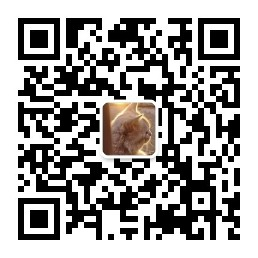
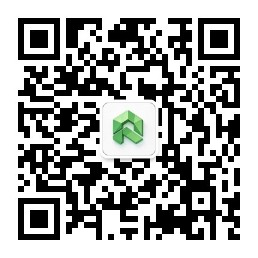
docs: 更新官网链接、作者信息并添加推广弹窗
- 将官网链接从 Netlify 子域名更新为独立域名 vfit.raychart.cn
- 作者署名从“一颗烂土豆”统一更新为“RayChart”
- 更新中英文文档中的联系方式和生态链接
- 替换公众号二维码和描述，强调获取大屏适配方案
- 在主题配置中添加多语言弹窗组件，用于推广《数字孪生大屏可视化适配方案》文档
- 更新 meta 作者信息和相关配置项

Changed region(s): [[0.3721, 0.3721, 0.6202, 0.6202]]

diff --git a/docs/.vitepress/config.ts b/docs/.vitepress/config.ts
@@ -15,7 +15,7 @@ export default defineConfig({
   head: [
     ['link', { rel: 'icon', href: '/logo.svg' }],
     ['meta', { name: 'keywords', content: 'vue3, vfit, scale, fit-container, data-visualization, dashboard, big-screen, 大屏适配, 可视化大屏, 缩放, 定位' }],
-    ['meta', { name: 'author', content: '一颗烂土豆' }],
+    ['meta', { name: 'author', content: 'RayChart' }],
     ['meta', { property: 'og:type', content: 'website' }],
     ['meta', { property: 'og:title', content: 'vfit - Vue 3 可视化大屏适配方案' }],
     ['meta', { property: 'og:description', content: '专为大屏数据可视化设计，一键实现全屏自适应与精准定位。' }],
@@ -52,8 +52,8 @@ export default defineConfig({
             text: '生态链接',
             items: [
               { text: 'vfit-react', link: 'https://www.npmjs.com/package/vfit-react' },
-              { text: 'RayChart.js', link: 'https://chart3js.netlify.app/' },
-              { text: 'Mflow', link: 'https://web-mflow.netlify.app/' },
+              { text: 'RayChart.js', link: 'https://raychart.cn/' },
+              { text: 'Mflow', link: 'https://mflow.raychart.cn/' },
          
               { text: '生态卡片页', link: '/ecosystem' }
             ]
@@ -69,8 +69,8 @@ export default defineConfig({
           ]
         },
         footer: {
-          message: '作者：一颗烂土豆 · MIT Licensed',
-          copyright: '© 2025 一颗烂土豆'
+          message: '作者：RayChart · MIT Licensed',
+          copyright: '© 2025 RayChart'
         },
         outline: { label: '本页目录' },
         docFooter: { prev: '上一篇', next: '下一篇' },
@@ -98,6 +98,7 @@ export default defineConfig({
             text: 'Ecosystem',
             items: [
               { text: 'vfit-react', link: 'https://www.npmjs.com/package/vfit-react' },
+              { text: 'RayChart.js', link: 'https://raychart.cn/' },
               { text: 'Mflow', link: 'https://web-mflow.netlify.app/' },
               { text: 'Ecosystem Page', link: '/en/ecosystem' }
             ]
@@ -113,8 +114,8 @@ export default defineConfig({
           ]
         },
         footer: {
-          message: 'Author: 一颗烂土豆 · MIT Licensed',
-          copyright: '© 2025 一颗烂土豆'
+          message: 'Author: RayChart · MIT Licensed',
+          copyright: '© 2025 RayChart'
         },
         outline: { label: 'On this page' },
         docFooter: { prev: 'Previous', next: 'Next' },

diff --git a/docs/.vitepress/theme/index.ts b/docs/.vitepress/theme/index.ts
@@ -1,6 +1,65 @@
 import DefaultTheme from 'vitepress/theme'
+import { computed, defineComponent, h, onMounted, ref, watch } from 'vue'
+import { useData, useRoute } from 'vitepress'
 import './style.css'
 
 export default {
-  ...DefaultTheme
+  ...DefaultTheme,
+  Layout: defineComponent({
+    name: 'VfitLayout',
+    setup() {
+      const { lang } = useData()
+      const route = useRoute()
+      const showPopup = ref(false)
+      const dismissed = ref(false)
+      const isZh = computed(() => lang.value?.startsWith('zh'))
+      const popupTitle = computed(() => isZh.value ? '推荐阅读' : 'Recommended Reading')
+      const popupDesc = computed(() =>
+        isZh.value
+          ? '发现《数字孪生大屏可视化适配方案》，覆盖分辨率、DPI、性能优化与多终端适配实战。'
+          : 'Check the Big Screen Adaptation Plan covering resolution, DPI, performance optimization, and multi-device practices.'
+      )
+      const laterText = computed(() => isZh.value ? '稍后查看' : 'Later')
+      const openText = computed(() => isZh.value ? '立即查看' : 'Open Now')
+
+      const updatePopup = () => {
+        if (dismissed.value) return
+        if (route.path.includes('/dist/index.html')) {
+          showPopup.value = false
+          return
+        }
+        showPopup.value = true
+      }
+
+      const closePopup = () => {
+        dismissed.value = true
+        showPopup.value = false
+      }
+
+      const openPlan = () => {
+        dismissed.value = true
+        showPopup.value = false
+        window.open('/dist/index.html', '_blank', 'noopener')
+      }
+
+      onMounted(updatePopup)
+      watch(() => route.path, updatePopup)
+
+      return () => h('div', [
+        h(DefaultTheme.Layout),
+        showPopup.value
+          ? h('div', { class: 'vfit-popup-mask' }, [
+              h('div', { class: 'vfit-popup' }, [
+                h('div', { class: 'vfit-popup-title' }, popupTitle.value),
+                h('div', { class: 'vfit-popup-desc' }, popupDesc.value),
+                h('div', { class: 'vfit-popup-actions' }, [
+                  h('button', { class: 'vfit-popup-btn ghost', type: 'button', onClick: closePopup }, laterText.value),
+                  h('button', { class: 'vfit-popup-btn primary', type: 'button', onClick: openPlan }, openText.value)
+                ])
+              ])
+            ])
+          : null
+      ])
+    }
+  })
 }

diff --git a/docs/.vitepress/theme/style.css b/docs/.vitepress/theme/style.css
@@ -82,3 +82,63 @@
 .sponsor-img { width: 220px; height: 220px; border-radius: 12px; background: #fff; padding: 10px; object-fit: contain; }
 .sponsor-title { font-size: 18px; font-weight: 600; color: var(--vp-c-text-1); }
 .sponsor-desc { font-size: 14px; color: var(--vp-c-text-2); text-align: center; line-height: 1.5; }
+
+.vfit-popup-mask {
+  position: fixed;
+  inset: 0;
+  z-index: 9999;
+  display: flex;
+  align-items: center;
+  justify-content: center;
+  background: rgba(0, 0, 0, 0.45);
+}
+
+.vfit-popup {
+  width: min(520px, calc(100vw - 32px));
+  border-radius: 16px;
+  border: 1px solid var(--vp-c-divider);
+  background: var(--vp-c-bg);
+  box-shadow: 0 24px 60px rgba(0, 0, 0, 0.3);
+  padding: 20px;
+}
+
+.vfit-popup-title {
+  font-size: 18px;
+  font-weight: 700;
+  color: var(--vp-c-text-1);
+}
+
+.vfit-popup-desc {
+  margin-top: 10px;
+  font-size: 14px;
+  line-height: 1.7;
+  color: var(--vp-c-text-2);
+}
+
+.vfit-popup-actions {
+  margin-top: 16px;
+  display: flex;
+  justify-content: flex-end;
+  gap: 10px;
+}
+
+.vfit-popup-btn {
+  border: 1px solid transparent;
+  border-radius: 10px;
+  padding: 8px 14px;
+  font-size: 14px;
+  line-height: 1;
+  cursor: pointer;
+}
+
+.vfit-popup-btn.ghost {
+  border-color: var(--vp-c-divider);
+  background: transparent;
+  color: var(--vp-c-text-2);
+}
+
+.vfit-popup-btn.primary {
+  border-color: var(--vp-c-brand-1);
+  background: var(--vp-c-brand-1);
+  color: #fff;
+}

diff --git a/docs/en/contact.md b/docs/en/contact.md
@@ -4,13 +4,13 @@
   <div class="contact-card">
     <img class="contact-img" src="/contact/wechat.jpg" alt="WeChat Official Account QR Code" />
     <div class="contact-title">WeChat Official Account</div>
-    <div class="contact-desc">Scan to follow and get the latest updates and tutorials.</div>
+    <div class="contact-desc">Follow RayChart on WeChat to get the most comprehensive big-screen adaptation research guide and latest updates.</div>
   </div>
 </div>
 
 ## Text Contact Methods
 
-- Website: [https://web-vfit.netlify.app](https://web-vfit.netlify.app){target="_blank" rel="noopener"}
+- Website: [https://vfit.raychart.cn/](https://vfit.raychart.cn/){target="_blank" rel="noopener"}
 - GitHub: [https://github.com/v-plugin/vfit](https://github.com/v-plugin/vfit){target="_blank" rel="noopener"}
 - Mflow: [https://web-mflow.netlify.app/](https://web-mflow.netlify.app/){target="_blank" rel="noopener"}
 - npm Package: [https://www.npmjs.com/package/vfit](https://www.npmjs.com/package/vfit){target="_blank" rel="noopener"}

diff --git a/docs/contact.md b/docs/contact.md
@@ -4,14 +4,13 @@
   <div class="contact-card">
     <img class="contact-img" src="/contact/wechat.jpg" alt="公众号二维码" />
     <div class="contact-title">公众号</div>
-    <div class="contact-desc">扫码关注，获取最新更新与教程。</div>
+    <div class="contact-desc">扫码关注公众号 RayChart，获取全网最全的大屏适配调研方案与最新更新。</div>
   </div>
 </div>
 
 ## 文字联系方式
 
-- 官网：[https://web-vfit.netlify.app](https://web-vfit.netlify.app){target="_blank" rel="noopener"}
+- 官网：[https://vfit.raychart.cn/](https://vfit.raychart.cn/){target="_blank" rel="noopener"}
 - GitHub：[https://github.com/v-plugin/vfit](https://github.com/v-plugin/vfit){target="_blank" rel="noopener"}
 - Mflow：[https://web-mflow.netlify.app/](https://web-mflow.netlify.app/){target="_blank" rel="noopener"}
 - npm 包：[https://www.npmjs.com/package/vfit](https://www.npmjs.com/package/vfit){target="_blank" rel="noopener"}
-

diff --git a/docs/en/ecosystem.md b/docs/en/ecosystem.md
@@ -8,7 +8,7 @@
       <div class="eco-desc">React version of vfit, providing the same lightweight big screen adapter experience.</div>
     </div>
   </a>
-  <a class="eco-card large" href="https://chart3js.netlify.app/" target="_blank" rel="noopener">
+  <a class="eco-card large" href="https://raychart.cn/" target="_blank" rel="noopener">
     <img class="eco-banner" src="/ecosystem/chart3.png" style="object-fit: contain; background: #f9f9f9; padding: 20px;" alt="RayChart.js" />
     <div class="eco-body">
       <div class="eco-title">RayChart.js</div>

diff --git a/docs/en/friends.md b/docs/en/friends.md
@@ -5,5 +5,5 @@
   <a class="link-card" href="https://vitepress.dev" target="_blank" rel="noopener">VitePress Docs</a>
   <a class="link-card" href="https://www.netlify.com/" target="_blank" rel="noopener">Netlify</a>
   <a class="link-card" href="https://www.npmjs.com/package/vfit" target="_blank" rel="noopener">vfit npm package</a>
-  <a class="link-card" href="https://web-vfit.netlify.app" target="_blank" rel="noopener">vfit Website</a>
+  <a class="link-card" href="https://vfit.raychart.cn/" target="_blank" rel="noopener">vfit Website</a>
 </div>

diff --git a/docs/friends.md b/docs/friends.md
@@ -5,5 +5,5 @@
   <a class="link-card" href="https://vitepress.dev" target="_blank" rel="noopener">VitePress 文档</a>
   <a class="link-card" href="https://www.netlify.com/" target="_blank" rel="noopener">Netlify</a>
   <a class="link-card" href="https://www.npmjs.com/package/vfit" target="_blank" rel="noopener">vfit npm 包</a>
-  <a class="link-card" href="https://web-vfit.netlify.app" target="_blank" rel="noopener">vfit 官网</a>
+  <a class="link-card" href="https://vfit.raychart.cn/" target="_blank" rel="noopener">vfit 官网</a>
 </div>

diff --git a/README.md b/README.md
@@ -1,8 +1,10 @@
 # vfit
 
-官网：https://web-vfit.netlify.app
+官网：https://vfit.raychart.cn/
 
-作者：一颗烂土豆
+公众号：RayChart（获取全网最全的大屏适配调研方案）
+
+作者：RayChart
 
 Vue 3 的轻量缩放与定位解决方案。通过插件提供全局缩放值，并内置 `FitContainer` 与 5 个专用定位组件，让页面元素在不同分辨率下保持比例与位置一致。
 
